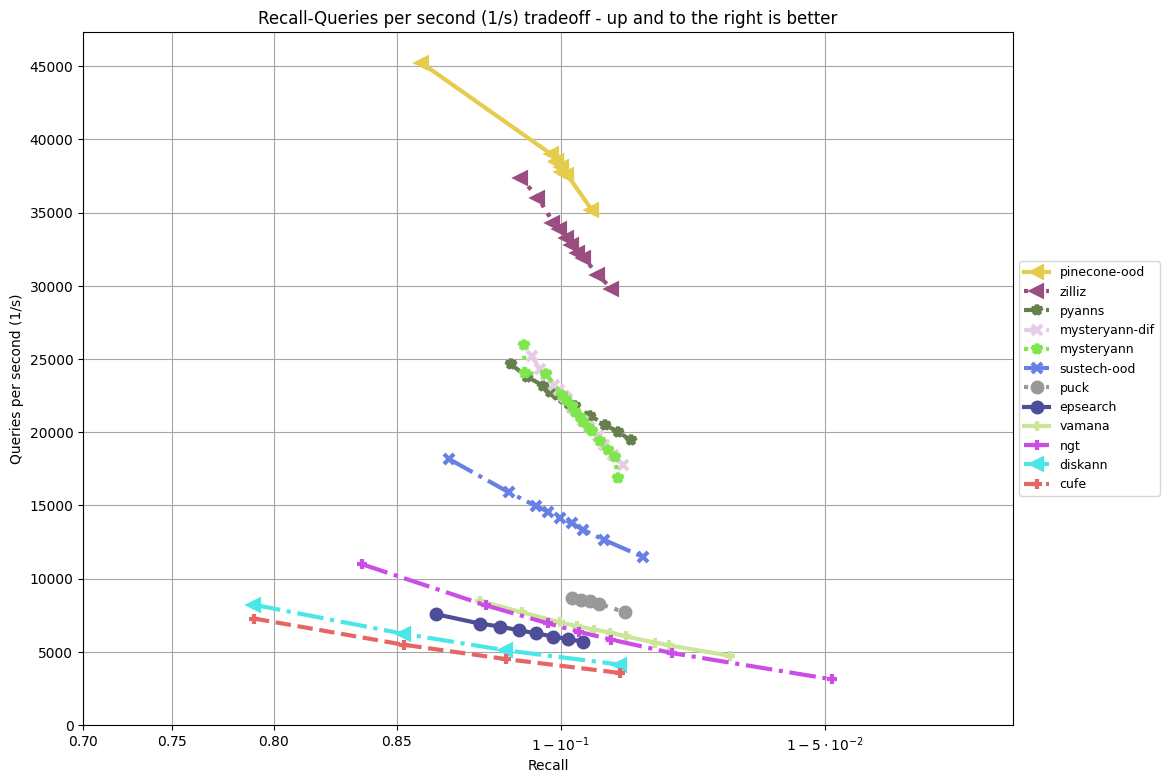
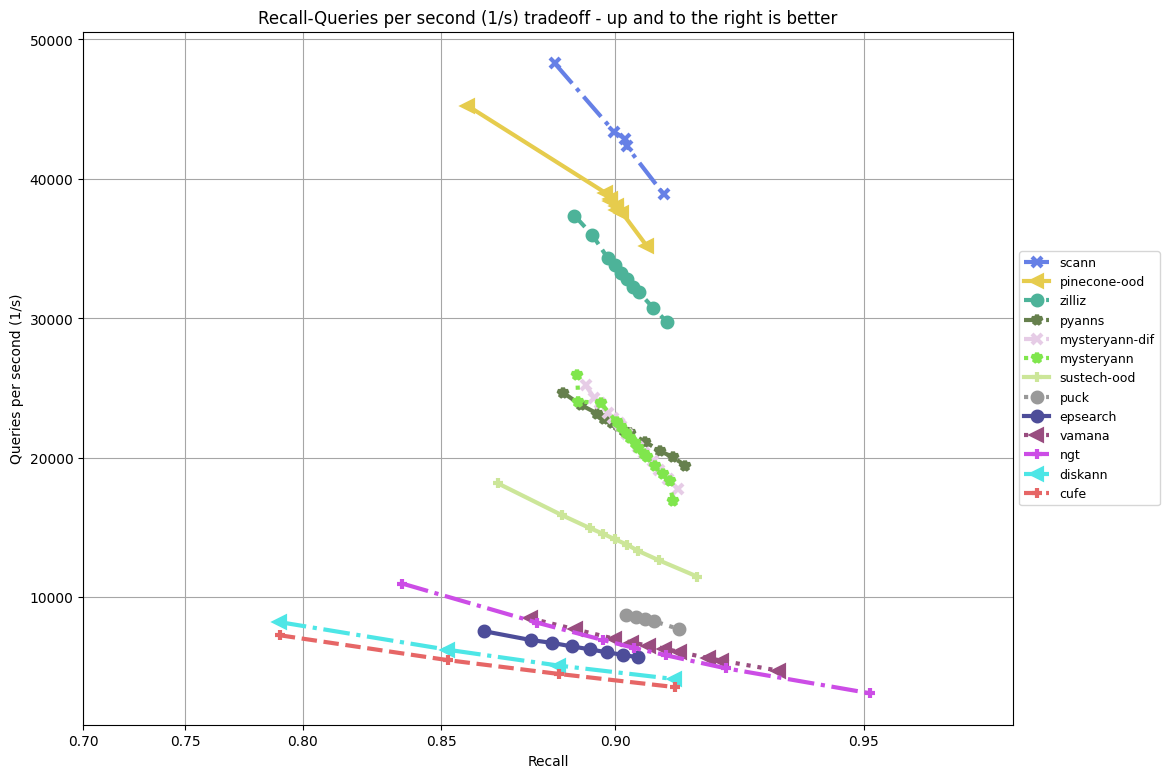
Add ScaNN solutions in big-ann-benchmarks2023 (#286)
* Add ScaNN to OOD and Streaming track.

* Update leaderboard results (OOD)

Add plotting option to match the current plotting style and can be invoked with `--x-scale aneurips23ood`
To avoid confusion, we only add new numbers (ours) to the leaderboard csv.
The plot is generated with
```
python plot.py --dataset text2image-10M --neurips23track ood --x-scale aneurips23ood --csv neurips23/ongoing_leaderboard/ood/res_public_queries_AzureD8lds_v5.csv --output neurips23/ongoing_leaderboard/ood/text2image-10M.png
```

* Update leaderboard results (Streaming)

Reran all entries and updated entire leaderboard due to the caching issue in streaming evaluation #280.
This changes numbers quite significantly therefore the full csv is updated.
Note that Zilliz solution has not been merged yet.
For fairness we used the results from its latest snapshot (fb97191e2fa95b3fe5d9d4a4b8fa05ead1b7e2ae).

* Make training works under 16GB, by training part of the data and inserting the rest.

* Add more query args points on OOD so that we make sure recall is (almost always) higher than 90%.

* Update leaderboard results with Amir's run

---------

diff --git a/neurips23/ood/scann/scann.py b/neurips23/ood/scann/scann.py
@@ -1,0 +1,169 @@
+
+import os
+from pathlib import Path
+
+from benchmark.dataset_io import download
+from benchmark.dataset_io import read_fbin
+from benchmark.datasets import DATASETS
+from google.protobuf import text_format
+from neurips23.ood.base import BaseOODANN
+import numpy as np
+import scann
+from scann.proto import scann_pb2
+
+
+class Scann(BaseOODANN):
+
+    def __init__(self, metric, index_params):
+        self.config_id = index_params.get('config_id', None)
+        self.download = index_params.get('download', False)
+        self.tree_size = index_params.get('tree_size', 40_000)
+        self.serialized_dir = 'data/scann/ood'
+        print('ScaNN: Init')
+
+    def load_index(self, dataset):
+
+        # if self.download and not os.path.exists(self.serialized_dir):
+        if self.download:
+            # Try downloading if the directory does not exist.
+            print('ScaNN: Download serialized searcher.')
+            path = Path(self.serialized_dir)
+            path.mkdir(parents=True, exist_ok=True)
+            remote_dir = 'https://storage.googleapis.com/scann/big-ann-2023/ood'
+            file_list = ['ah_codebook.pb',
+                         'bfloat16_dataset.npy',
+                         'datapoint_to_token.npy',
+                         'hashed_dataset.npy',
+                         'hashed_dataset_soar.npy',
+                         'scann_assets.pbtxt',
+                         'scann_config.pb',
+                         'scann_config.pb.0',
+                         'scann_config.pb.1',
+                         'scann_config.pb.2',
+                         'serialized_partitioner.pb']
+            for fn in file_list:
+                download(f'{remote_dir}/{fn}', f'{self.serialized_dir}/{fn}')
+
+        if os.path.exists(self.serialized_dir):
+            # Load if data exists.
+            print(f'ScaNN: Load serialized searcher {self.serialized_dir}')
+            if self.config_id is not None:
+                src = Path(self.serialized_dir) / \
+                    Path(f'scann_config.pb.{self.config_id}')
+                dst = Path(self.serialized_dir) / Path(f'scann_config.pb')
+                os.rename(src, dst)
+            self.searcher = scann.scann_ops_pybind.load_searcher(
+                self.serialized_dir)
+            self.searcher.set_num_threads(8)
+
+    def fit(self, dataset):
+        if hasattr(self, 'searcher'):
+            print('ScaNN: Searcher already loaded.')
+            return
+        print('ScaNN: Training')
+        print('This requires more than 16GB of RAM.')
+        print('Please download the serialized searcher or use a higher RAM VM.')
+        config = f"""
+      num_neighbors: 10
+      distance_measure {{
+        distance_measure: "DotProductDistance"
+      }}
+      partitioning {{
+        num_children: { self.tree_size }
+        max_clustering_iterations: 40
+        min_cluster_size: 10
+        partitioning_distance {{
+          distance_measure: "SquaredL2Distance"
+        }}
+        num_cpus: 8
+        database_spilling {{
+          spilling_type: TWO_CENTER_ORTHOGONALITY_AMPLIFIED
+          orthogonality_amplification_lambda: 1.3
+          overretrieve_factor: 1.2
+        }}
+        query_spilling {{
+          spilling_type: FIXED_NUMBER_OF_CENTERS
+          max_spill_centers: 35
+        }}
+        partitioning_type: GENERIC
+        query_tokenization_distance_override {{
+          distance_measure: "DotProductDistance"
+        }}
+        query_tokenization_type: FLOAT
+        balancing_type: UNBALANCED_FLOAT32
+        single_machine_center_initialization: RANDOM_INITIALIZATION
+        avq: 1.6
+      }}
+      hash {{
+        asymmetric_hash {{
+          projection {{
+            projection_type: CHUNK
+            num_blocks: 100
+            num_dims_per_block: 2
+            input_dim: 200
+          }}
+          num_clusters_per_block: 16
+          max_clustering_iterations: 30
+          quantization_distance {{
+            distance_measure: "SquaredL2Distance"
+          }}
+          lookup_type: INT8_LUT16
+          use_residual_quantization: true
+          noise_shaping_threshold: 0.1
+          expected_sample_size: 100000
+          use_global_topn: true
+        }}
+      }}
+      exact_reordering {{
+        approx_num_neighbors: 150
+        bfloat16 {{
+          enabled: true
+          noise_shaping_threshold: 0.2
+        }}
+      }}
+      custom_search_method: "experimental_top_level_partitioner:700,20,3.0,2.5,1.8"
+    """
+
+        ds = DATASETS[dataset]()
+        k = ds.default_count()
+        self.searcher = (scann.scann_ops_pybind.builder(
+            np.zeros([0, ds.d]).astype('float32'), k, 'dot_product')
+            .score_brute_force()
+            .build())
+        self.searcher.reserve(10_000_000)
+
+        # Avoid loading the full database..
+        import gc
+        s = 0
+        trained = False
+        for data in ds.get_dataset_iterator(bs=100_000):
+            print(f'ScaNN: Read datapoints: {s}')
+            self.searcher.searcher.upsert([None] * len(data), data, len(data))
+            s += len(data)
+            del data
+            gc.collect()
+            if not trained and s >= 8_000_000:
+                self.searcher.set_num_threads(8)
+                self.searcher.rebalance(config)
+                self.searcher.set_num_threads(8)
+                trained = True
+        del ds
+        # path = Path(self.serialized_dir)
+        # path.mkdir(parents=True, exist_ok=True)
+        # self.searcher.serialize(self.serialized_dir)
+        gc.collect()
+
+    def query(self, X, k):
+        self.res = self.searcher.search_batched_parallel(
+            X,
+            leaves_to_search=self.leaves_to_search,
+            pre_reorder_num_neighbors=self.reorder,
+            batch_size=12500
+        )[0]
+
+    def set_query_arguments(self, query_args):
+        self.leaves_to_search = query_args['leaves_to_search']
+        self.reorder = query_args['reorder']
+
+    def __str__(self):
+        return f'ScaNN,tree={self.leaves_to_search}/{self.tree_size},AH2,reorder={self.reorder}'

diff --git a/neurips23/streaming/scann/scann.py b/neurips23/streaming/scann/scann.py
@@ -1,0 +1,108 @@
+import os
+
+from benchmark.datasets import DATASETS
+from google.protobuf import text_format
+from neurips23.streaming.base import BaseStreamingANN
+import numpy as np
+import numpy.typing as npt
+import scann
+from scann.proto import scann_pb2
+
+
+class Scann(BaseStreamingANN):
+    def __init__(self, metric, index_params):
+        self.name = 'scann'
+        self.max_brute_force = 4_000_000
+        self.k = 10
+        self.n_threads = 8
+        self.tree_size = index_params.get('tree_size')
+        self.leaves_to_search = index_params.get('leaves_to_search')
+        self.reorder = index_params.get('reorder')
+        self.config = f"""
+        num_neighbors: 10
+        distance_measure {{
+          distance_measure: "DotProductDistance"
+        }}
+        partitioning {{
+          num_children: { self.tree_size }
+          max_clustering_iterations: 10
+          min_cluster_size: 10
+          partitioning_distance {{
+            distance_measure: "SquaredL2Distance"
+          }}
+          query_spilling {{
+            spilling_type: FIXED_NUMBER_OF_CENTERS
+            max_spill_centers: { self.leaves_to_search }
+          }}
+          database_spilling {{
+            spilling_type: TWO_CENTER_ORTHOGONALITY_AMPLIFIED
+          }}
+          partitioning_type: GENERIC
+          query_tokenization_distance_override {{
+            distance_measure: "DotProductDistance"
+          }}
+          query_tokenization_type: FLOAT
+          balancing_type: UNBALANCED_FLOAT32
+          expected_sample_size: 1000000
+          single_machine_center_initialization: RANDOM_INITIALIZATION
+        }}
+        hash {{
+          asymmetric_hash {{
+            projection {{
+              projection_type: CHUNK
+              num_blocks: 50
+              num_dims_per_block: 2
+              input_dim: 100
+            }}
+            num_clusters_per_block: 16
+            max_clustering_iterations: 10
+            quantization_distance {{
+              distance_measure: "SquaredL2Distance"
+            }}
+            lookup_type: INT8_LUT16
+            use_residual_quantization: true
+            noise_shaping_threshold: 0.2
+            expected_sample_size: 32000
+            use_global_topn: true
+          }}
+        }}
+        exact_reordering {{
+          approx_num_neighbors: { self.reorder }
+        }}"""
+
+    def setup(self, dtype, max_pts, ndims) -> None:
+        self.brute_force = True
+        self.searcher = (scann.scann_ops_pybind.builder(
+            np.zeros([0, ndims]).astype(dtype), self.k, 'dot_product')
+            .score_brute_force()
+            .build(docids=[]))
+        self.searcher.reserve(max_pts)
+        self.searcher.set_num_threads(self.n_threads)
+
+    def insert(self, X: np.array, ids: npt.NDArray[np.uint32]) -> None:
+        print('Insert: ', ids.shape[0])
+        self.searcher.upsert(ids.tolist(), X, batch_size=1024)
+
+        if self.brute_force and self.searcher.size() > self.max_brute_force:
+            self.searcher.rebalance(self.config)
+            self.searcher.set_num_threads(self.n_threads)
+            self.brute_force = False
+
+    def delete(self, ids: npt.NDArray[np.uint32]) -> None:
+        print('Delete: ', ids.shape[0])
+        self.searcher.delete(ids.tolist())
+
+    def query(self, X, k):
+        print('Search: ', X.shape[0])
+        self.res = self.searcher.search_batched_parallel(
+            X, final_num_neighbors=k,
+            leaves_to_search=self.leaves_to_search,
+            pre_reorder_num_neighbors=self.reorder,
+            batch_size=1250
+        )[0]
+
+    def set_query_arguments(self, query_args):
+        pass
+
+    def __str__(self):
+        return f'ScaNN,tree={self.leaves_to_search}/{self.tree_size},AH2,reorder={self.reorder}'

diff --git a/plot.py b/plot.py
@@ -51,14 +51,20 @@ def create_plot(all_data, raw, x_scale, y_scale, xn, yn, fn_out, linestyles):
     ax.set_xlabel(xm['description'])
     # Custom scales of the type --x-scale a3
     if x_scale[0] == 'a':
-        alpha = int(x_scale[1:])
+        if x_scale[1:] == 'neurips23ood':
+          alpha = 3
+        else:
+          alpha = int(x_scale[1:])
         fun = lambda x: 1-(1-x)**(1/alpha)
         inv_fun = lambda x: 1-(1-x)**alpha
         ax.set_xscale('function', functions=(fun, inv_fun))
-        if alpha <= 3:
+        if x_scale[1:] == 'neurips23ood':
+          xm['lim'] = (0.7, 0.97)
+          plt.xticks([0.7, 0.75, 0.8, 0.85, 0.9, 0.95])
+        elif alpha <= 3:
             ticks = [inv_fun(x) for x in np.arange(0,1.2,.2)]
             plt.xticks(ticks)
-        if alpha > 3:
+        elif alpha > 3:
             from matplotlib import ticker
             ax.xaxis.set_major_formatter(ticker.LogitFormatter())
             #plt.xticks(ticker.LogitLocator().tick_values(min_x, max_x))
